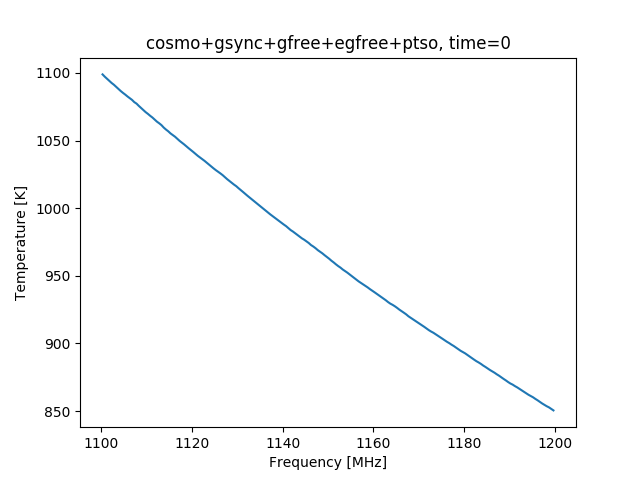
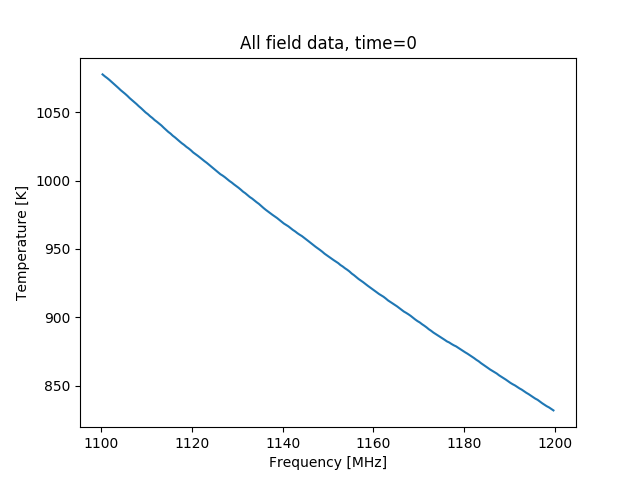
update simulation

diff --git a/logbook/postings/20171215_simulation/index.md b/logbook/postings/20171215_simulation/index.md
@@ -4,21 +4,21 @@ The simulation data is generated with bmxsim from CRIME data. The CRIME data fie
 
 ## 1. Full illuminated
 
-Cosmo image plot:
+Fig 1. Cosmo image plot:
 
 ![cosmo_img](cosmo_img.png)
 
-All fields image plot:
+Fig 2. All fields image plot:
 
 ![full_img](full_img.png)
 
 To see it clearly, I plot cosmo and all field data at time 0.
 
-Cosmo time 0 plot:
+Fig 3. Cosmo time 0 plot:
 
 ![cosmo_0](cosmo_0.png)
 
-All fields time 0 plot:
+Fig 4. All fields time 0 plot:
 
 ![full_0](full_0.png)
 
@@ -26,42 +26,36 @@ We can see two features from the above plots:
 - The value of all field data is much bigger than cosmo data.
 - All field data is much smoother than cosmo data.
 
-To get the cosmo data from all field data, I make a polynomial fit of degree 3 on the all field data, and subtract the polynomial curve from the all field data.
-
-Each field data and subtracted data:
+Fig 5-6. Each field data:
 
 ![cosmo_subpoly](cosmo_subpoly.png)
 
-Foreground and gsync have a higher magnitude, so I plotted them individually.
-
 ![foreground_gsync](foreground_gsync.png)
 
-All field data minus polynomial fit gets the subpoly data normalized to zero, while the mean value of cosmo data is not zero. Note that the bias value is unknown in a real environment.
+Foreground = gsync + gfree + egfree + ptso
+
+Foreground and gsync have a higher magnitude, so I plotted them individually.
+
+To get the cosmo data from all field data, I make a polynomial fit of degree 3 on each field of the data, and subtract the polynomial curve from the each field data.
+
+Fig 7. Each field data subtracted with polynomial fit of degree 3
+
+![subtracted](subtracted.png)
 
 ## 2. Infinite full illumination frequency
 
-Cosmo image plot:
+Fig 8. Cosmo image plot:
 
 ![cosmo](cosmo_img_inf.png)
 
 The cosmo image data is slightly higher than the illuminated image, although the shape is similar.
 
-All fields image plot:
+Fig 9. All fields image plot:
 
 ![full_img](full_img_inf.png)
 
-Each field data and subtracted data (polynomial fit of degree 3):
+Fig 10. Each field data subtracted with polynomial fit of degree 3
 
-![cosmo_subpoly](cosmo_subpoly_inf.png)
+![subtracted](subtracted_inf.png)
 
-Foreground and gsync:
-
-![foreground_gsync](foreground_gsync_inf.png)
-
-The point source field introduces noise to the subtracted data, so the polyfit subtraction doesn't work.
-
-## 3. Using a plain neural network to predict the bias
-
-To recover the bias of the cosmo field from subtracted data, I created a four-layer fully connected neural network with pytorch. The neural network takes the subtracted data as input. I generated 24-hour data, traind the neural network with 23-hour data and tested it with the rest one-hour data. The result looks good. This neural network can't deal with the ptso noise in the infinite nu_f either.
-
-![cosmo_nn](cosmo50.png)
+The point source field and the galactic synchrotron field introduce noise higher than the cosmo field, so it's not possible to extract cosmo field signal from the all-field data.
